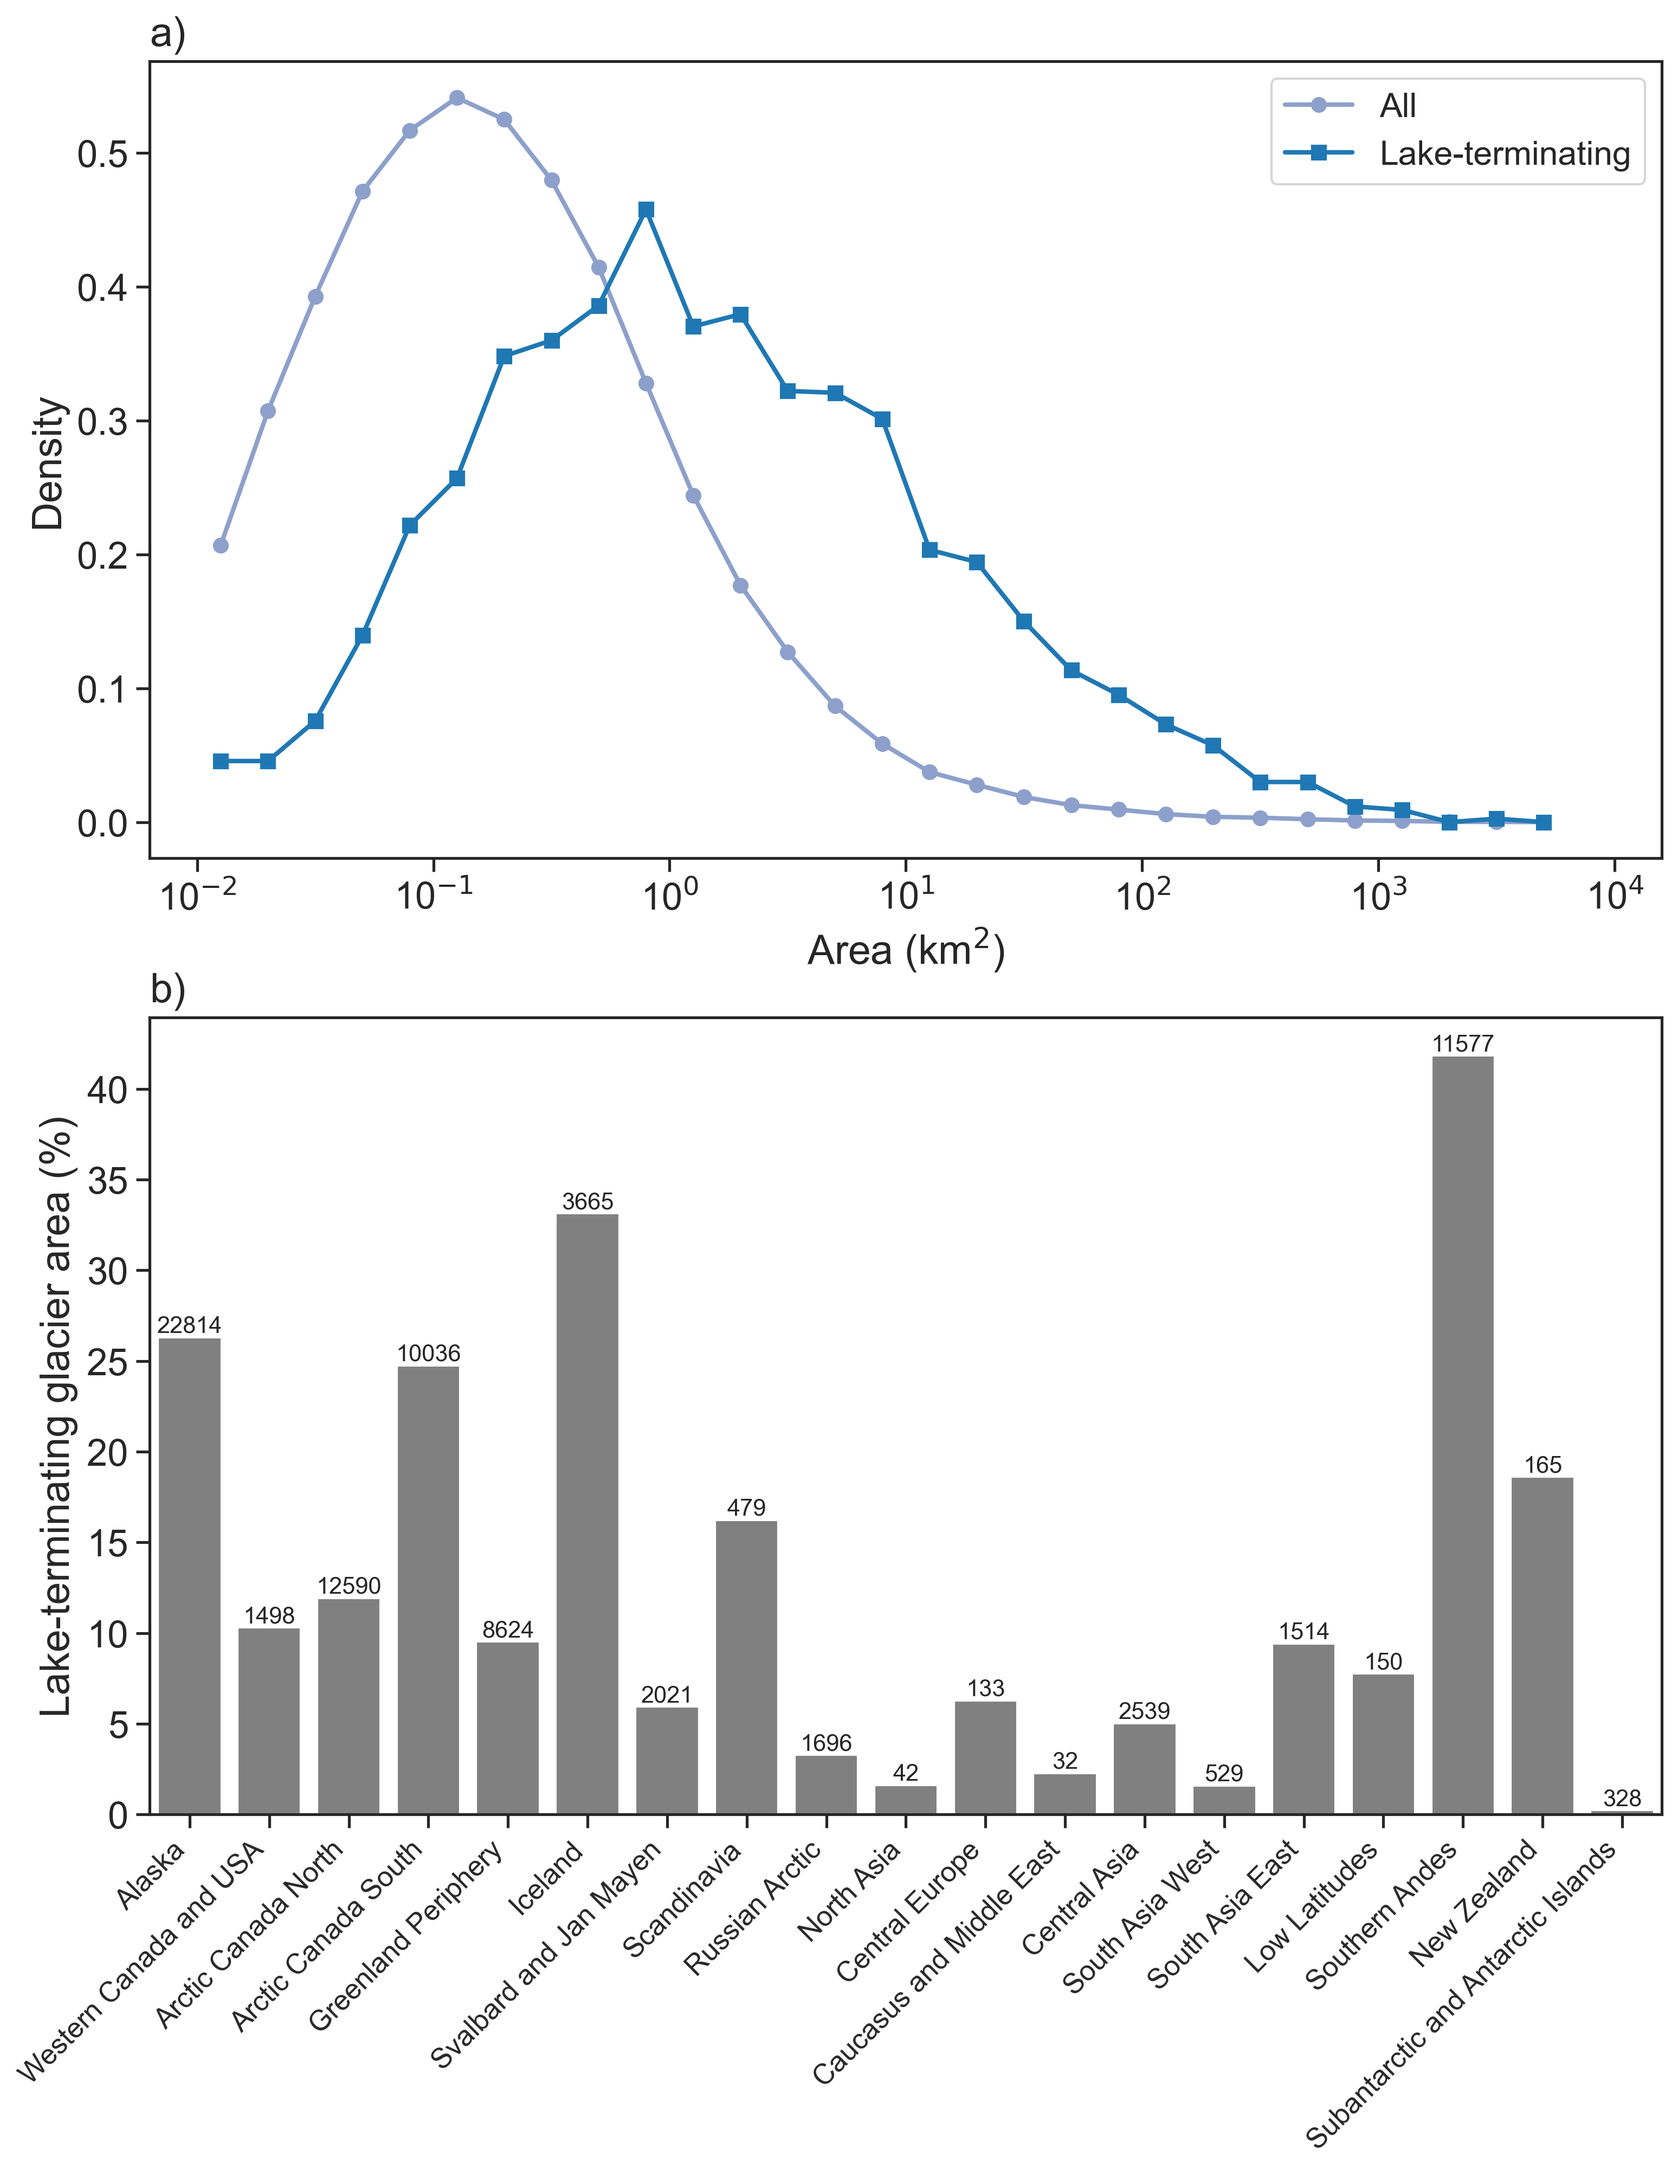
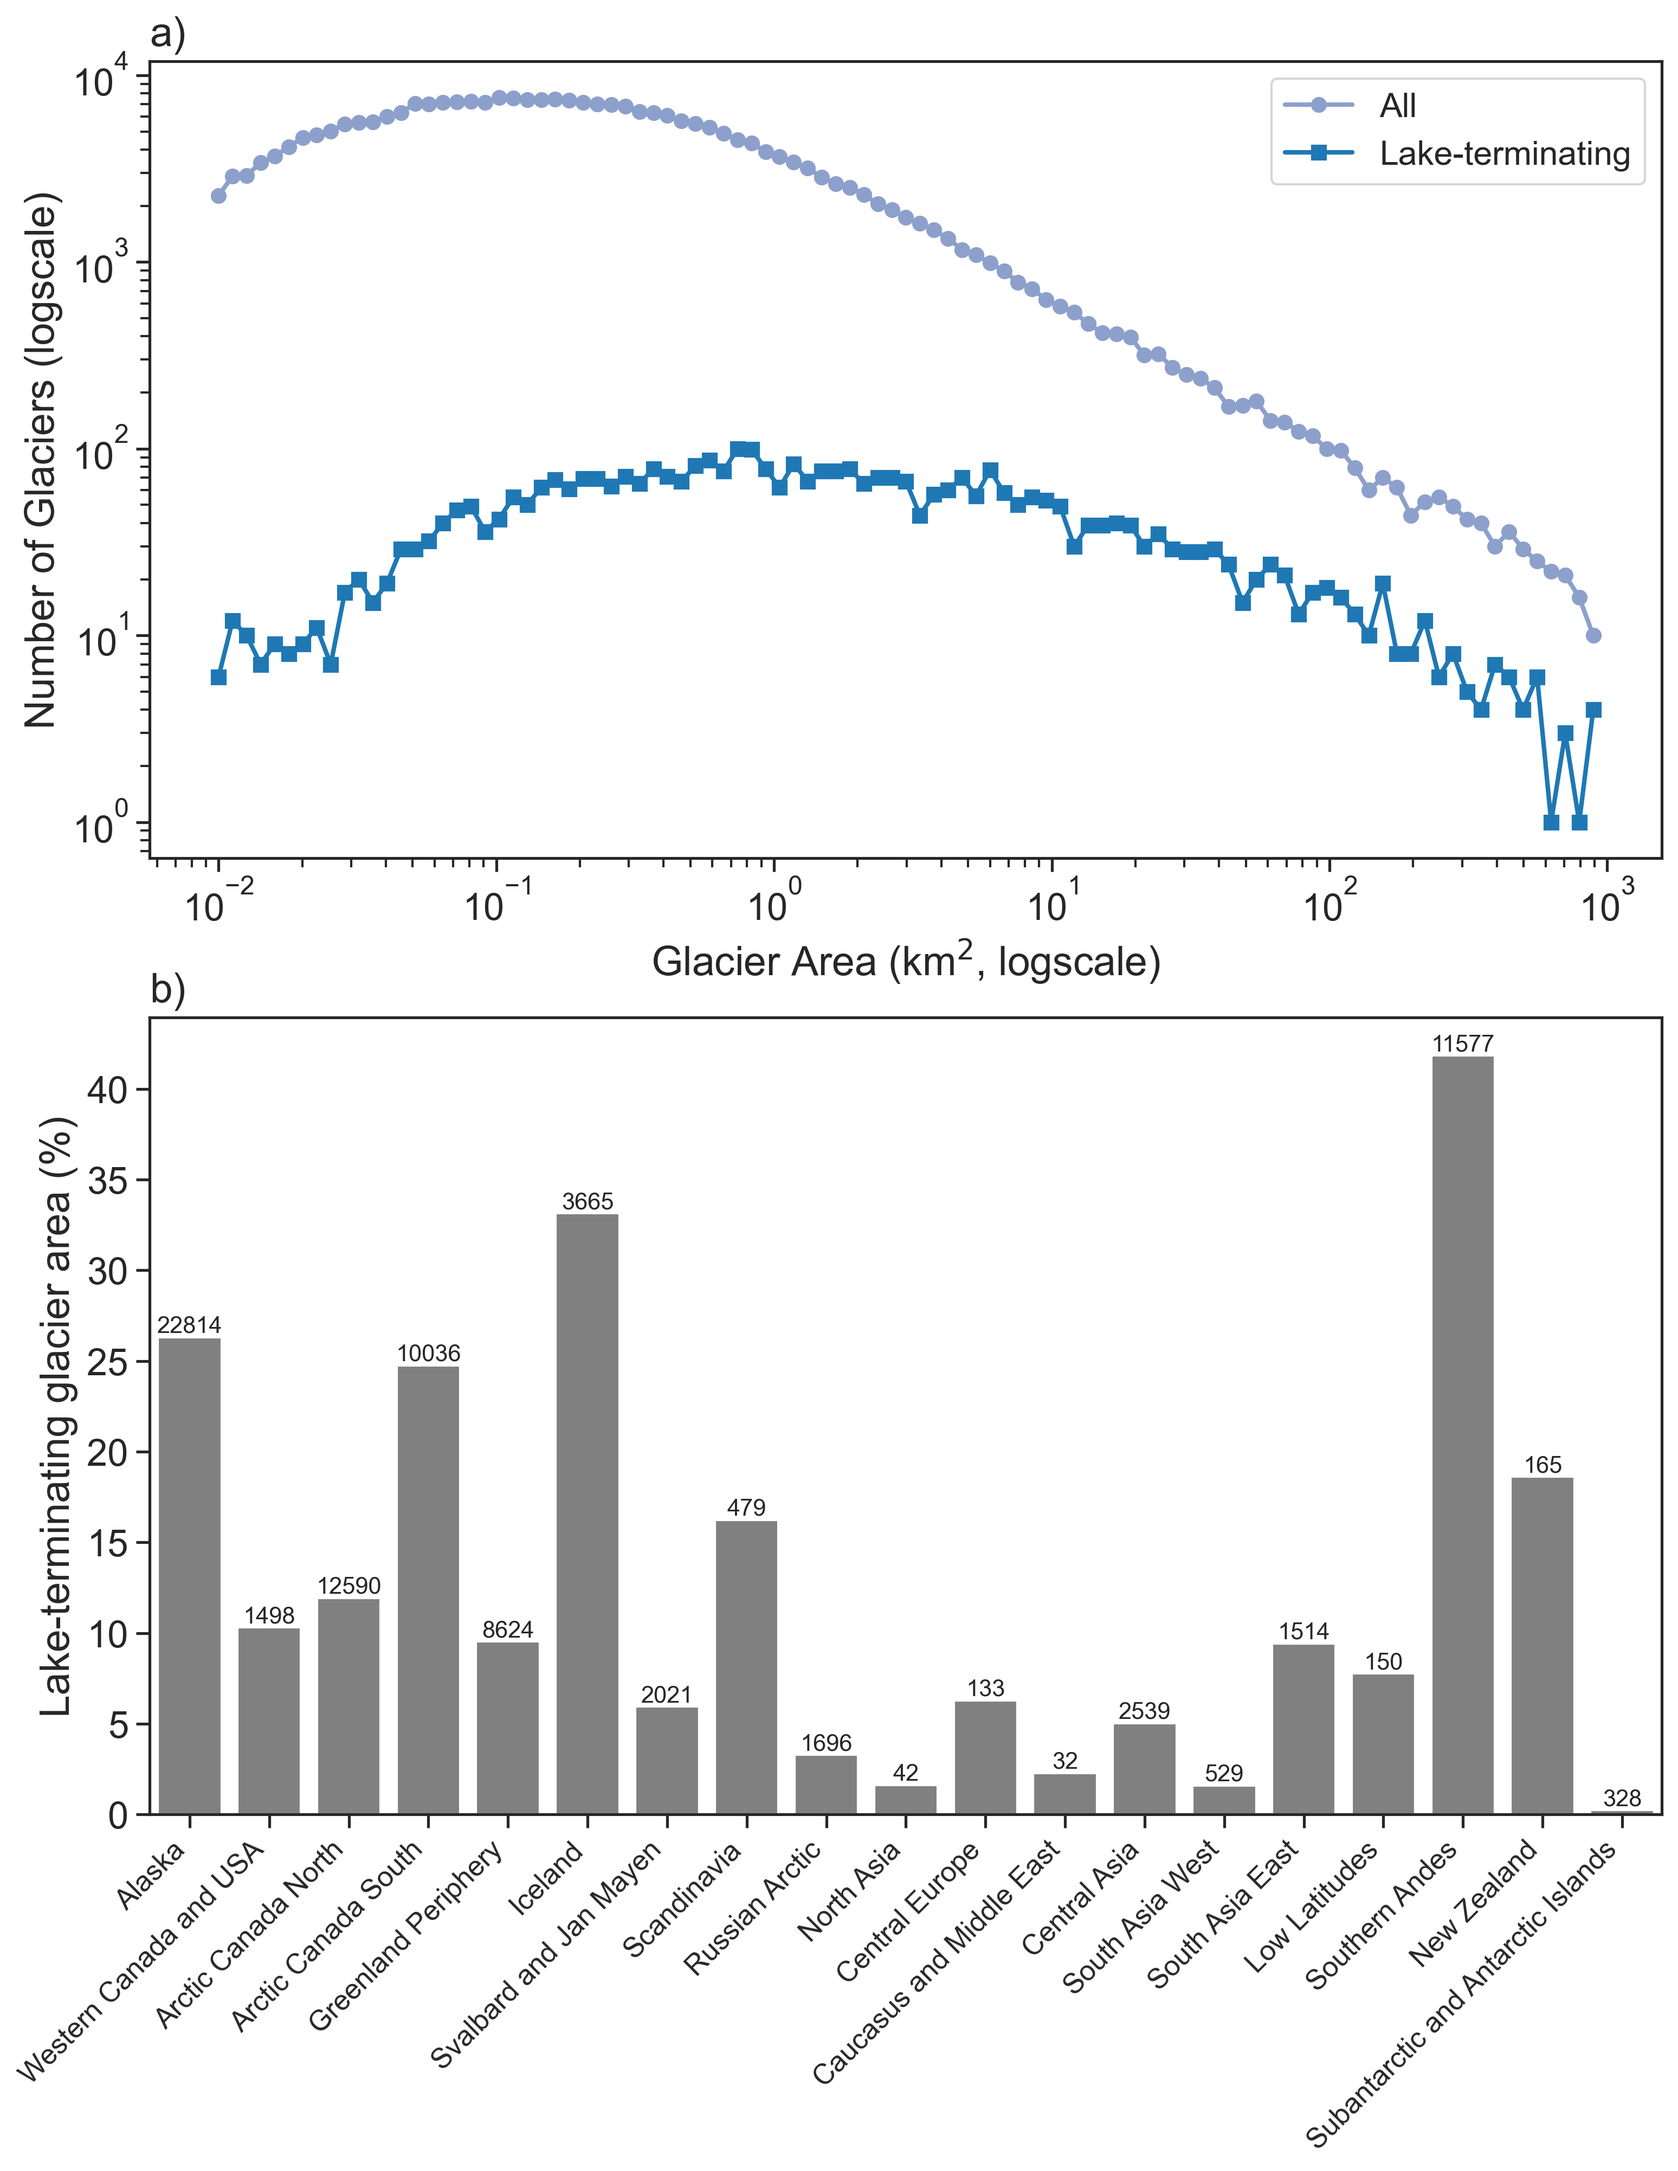
plot line histogram in log-log scale

diff --git a/essd/scripts/Fig5_AreaDistribution.py b/essd/scripts/Fig5_AreaDistribution.py
@@ -43,9 +43,9 @@ regional_vals['lake_area'] = lake_flags.loc[lake_flags['lake_level'].isin([1, 2]
 regional_vals['pct_area'] = 100 * regional_vals['lake_area'] / regional_vals['total_area']
 regional_vals.index = names
 
-bins = np.arange(-2, 4, 0.2)
-dens_all, _ = np.histogram(np.log10(lake_flags['area']), bins, density=True)
-dens_lake, _ = np.histogram(np.log10(lake_flags.loc[lake_flags['lake_level'].isin([1, 2]), 'area']), bins, density=True)
+bins = np.logspace(-2, 3, 100)
+dens_all, _ = np.histogram(lake_flags['area'], bins)
+dens_lake, _ = np.histogram(lake_flags.loc[lake_flags['lake_level'].isin([1, 2]), 'area'], bins)
 
 # now, plot the distributions
 sns.set_theme(font_scale=1.5, style="white")
@@ -53,17 +53,19 @@ sns.set_style('ticks')  # white style with tick marks
 
 fig, axs = plt.subplots(2, 1, figsize=(12, 14))
 
-axs[0].plot(bins[:-1] + 0.1, dens_all, 'o-', color='#8da0cb', label='All', linewidth=2)
-axs[0].plot(bins[:-1] + 0.1, dens_lake, 's-', color='#1f78b4', label='Lake-terminating', linewidth=2)
+axs[0].plot(bins[:-1], dens_all, 'o-', color='#8da0cb', label='All', linewidth=2)
+axs[0].plot(bins[:-1], dens_lake, 's-', color='#1f78b4', label='Lake-terminating', linewidth=2)
 
+axs[0].set_xscale('log')
+axs[0].set_yscale('log')
 axs[0].legend(fontsize='small')
 
 # now, set the labels
-axs[0].set_xticks(axs[0].get_xticks(), labels=[f"10$^{{{int(x)}}}$" for x in axs[0].get_xticks()])
-axs[0].set_xlim(-2.2, 4.2)
+# axs[0].set_xticks(axs[0].get_xticks(), labels=[f"10$^{{{int(x)}}}$" for x in axs[0].get_xticks()])
+# axs[0].set_xlim(-2.2, 4.2)
 
-axs[0].set_xlabel('Area (km$^2$)')
-axs[0].set_ylabel('Density')
+axs[0].set_xlabel('Glacier Area (km$^2$, logscale)')
+axs[0].set_ylabel('Number of Glaciers (logscale)')
 
 axs[1] = sns.barplot(data=regional_vals['pct_area'], ax=axs[1], color='0.5')
 axs[1].set_xticks(axs[1].get_xticks(), axs[1].get_xticklabels(), rotation=45, va='top', ha='right', size='x-small')
